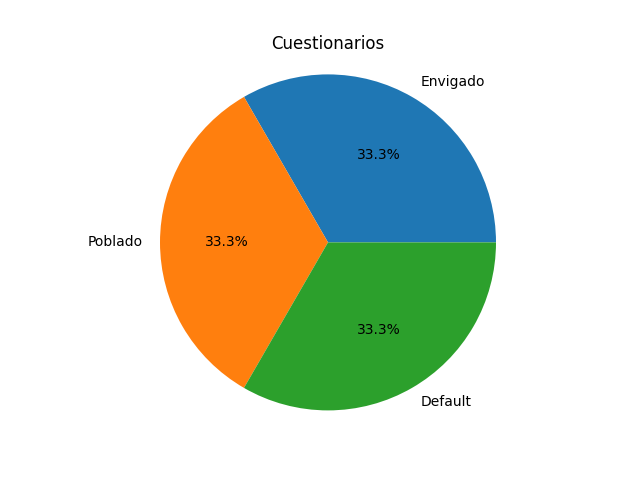
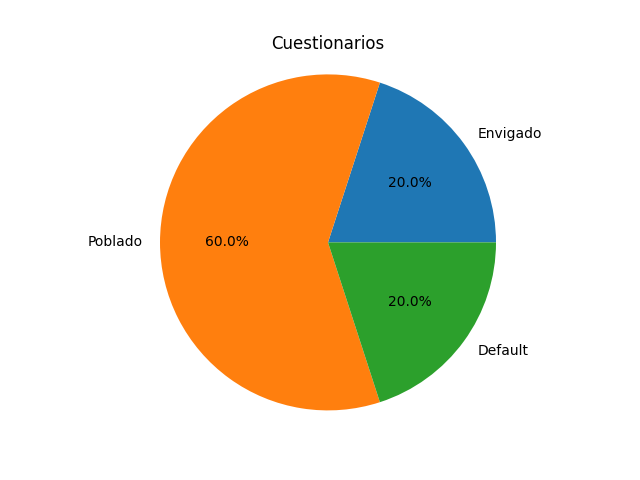
Cosas finales

diff --git a/Parcha-App/ParchApp2/Templates/Home.html b/Parcha-App/ParchApp2/Templates/Home.html
@@ -1,3 +1,4 @@
+{% extends 'base.html' %}
 {% load static %}
 <!DOCTYPE html>
 <html lang="en">
@@ -9,15 +10,15 @@
     <meta charset = "UTF-8">
 </head>
 <body>
-  {% extends 'base.html' %}
   {% block content %}
     <center>
         <div class="content" style="background-color: gray; margin-top: 50px; margin-left: 150px; margin-right: 150px; height: 200px;">
             <h1>Parchapp</h1>
         </div>
+        <img src="{% static 'plot.png' %}" alt="Plot">
+        <img src="{% static 'plot2.png' %}" alt="Plot">
+        <img src="{% static 'plot3.png' %}" alt="Plot">
     </center>
-    <img src="{% static 'plot.png' %}" alt="Plot">
-    
   {% endblock content %}
 </body> 
 </html>

diff --git a/Parcha-App/ParchApp2/views.py b/Parcha-App/ParchApp2/views.py
@@ -12,19 +12,52 @@ def home(request):
     all_objects = cuestionario.objects.all()
     dict = {
         'Envigado' : 0,
-        'Poblado' : 0
+        'Poblado' : 0,
+        'Default' : 0
     }
     for obj in all_objects:
-        dict[obj.Zona] = dict[obj.Zona] = 1
+        dict[obj.Zona] = dict[obj.Zona] + 1
     keys = dict.keys()
     values = dict.values()
     plt.pie(values, labels=keys, autopct='%1.1f%%')
     plt.title('Cuestionarios')
     plt.axis('equal')
-    plot_path = os.path.join('media','Parcha-App','static', 'plot.png')
+    plot_path = os.path.join('static', 'plot.png')
     plt.savefig(plot_path)
-
     plt.close()
+
+    dict2 = {
+        'Discoteca' : 0,
+        'Restaurante' : 0,
+        'Centro Comercial' : 0,
+        'Mirador' : 0
+    }
+    for obj in all_objects:
+        dict2[obj.Tipo] = dict2[obj.Tipo] + 1
+    fig, ax = plt.subplots()
+    ax.bar(dict2.keys(), dict2.values())
+    plot_path = os.path.join('static', 'plot2.png')
+    plt.savefig(plot_path)
+    plt.close()
+
+    dict3 = {
+        'menor que 50k' : 0,
+        'entre 50k y 150k' : 0,
+        'mas de 150k' : 0,
+        'Default' : 0
+    }
+    for obj in all_objects:
+        dict3[obj.Eco] = dict3[obj.Eco] + 1
+    fig, ax = plt.subplots()
+    ax.bar(dict3.keys(), dict3.values())
+    plot_path = os.path.join('static', 'plot3.png')
+    plt.savefig(plot_path)
+    plt.close()
+
+    print(dict)
+    print(dict2)
+    print(dict3)
+
     return render(request, 'Home.html', {'data' : dict})
 
 @login_required
